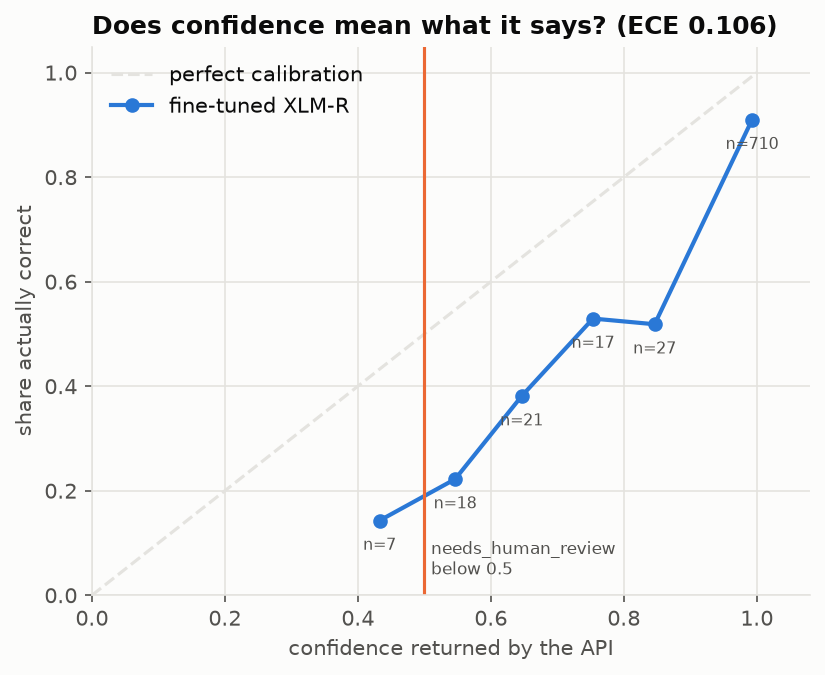
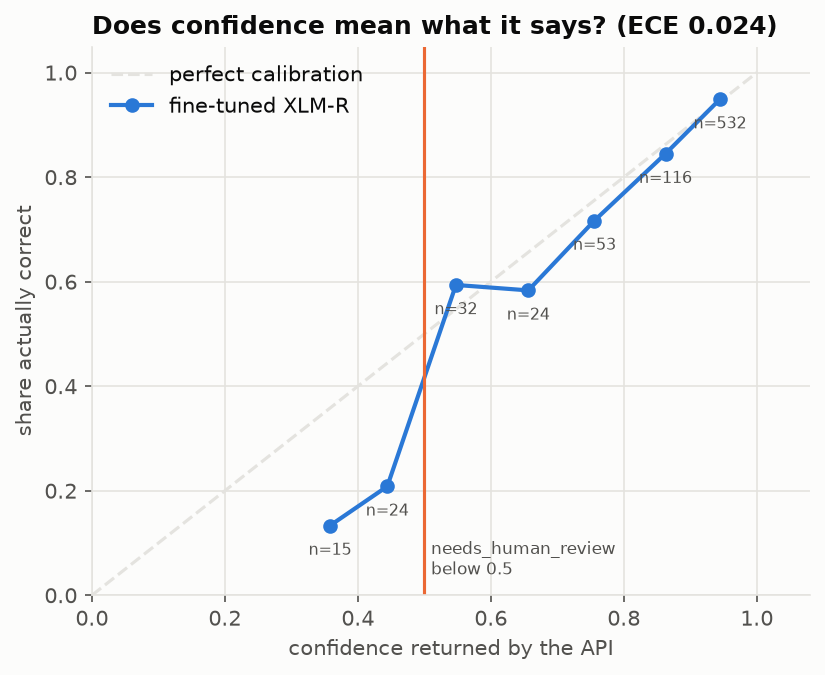
Calibrate category confidence with temperature scaling (T=1.75, ECE 0.106 -> 0.025, predictions unchanged)

diff --git a/notebooks/06_calibrate.py b/notebooks/06_calibrate.py
@@ -1,0 +1,98 @@
+"""Calibrate the XLM-R category confidence with temperature scaling.
+
+    .venv/bin/python notebooks/06_calibrate.py
+
+The fine-tuned model is over-confident (mean confidence 0.96, accuracy 0.85). Temperature scaling divides the
+logits by one number T > 1 before the softmax. It never changes which category wins, only how sure the model
+says it is. Since log p = logits - const, softmax(logits / T) == p ** (1 / T), renormalised.
+
+T is chosen to minimise negative log-likelihood. The honest effect is measured with 5-fold cross-validation
+inside the 800 validation tickets (fit T on 4/5, score the held-out 1/5); the final T is then fitted on all 800.
+Writes app/calibration.json (keyed by the model hash, so it only applies to that exact model)
+and reports/calibration.json.
+"""
+
+import json
+import sys
+
+import numpy as np
+from sklearn.model_selection import StratifiedKFold
+
+from report_style import REPORTS, ROOT
+
+sys.path.insert(0, str(ROOT))
+from app.model import REVIEW_THRESHOLD, file_hash  # noqa: E402
+
+XLMR = ROOT / "model" / "xlmr"
+GRID = np.round(np.arange(0.5, 6.001, 0.01), 2)
+SEED = 42
+
+
+def scale(p, t):
+    q = np.power(np.clip(p, 1e-12, 1), 1 / t)
+    return q / q.sum(1, keepdims=True)
+
+
+def nll(p, y):
+    return float(-np.mean(np.log(np.clip(p[np.arange(len(y)), y], 1e-12, 1))))
+
+
+def ece(p, y):
+    conf, correct = p.max(1), p.argmax(1) == y
+    bins = np.minimum((conf * 10).astype(int), 9)
+    return float(sum(abs(correct[bins == b].mean() - conf[bins == b].mean()) * (bins == b).mean()
+                     for b in range(10) if (bins == b).any()))
+
+
+def fit(p, y):
+    return float(GRID[np.argmin([nll(scale(p, t), y) for t in GRID])])
+
+
+def summary(p, y):
+    conf, correct = p.max(1), p.argmax(1) == y
+    review = conf < REVIEW_THRESHOLD
+    return {"nll": nll(p, y), "ece": ece(p, y), "mean_confidence": float(conf.mean()),
+            "accuracy": float(correct.mean()), "share_flagged_for_review": float(review.mean()),
+            "accuracy_of_flagged": float(correct[review].mean()) if review.any() else None,
+            "accuracy_of_auto_routed": float(correct[~review].mean())}
+
+
+def main():
+    cfg = json.loads((XLMR / "config.json").read_text())
+    saved = np.load(XLMR / "val_probs.npz")
+    labels = {json.loads(line)["ticket_id"]: json.loads(line)["category"]
+              for line in open(ROOT / "data" / "validation.jsonl", encoding="utf-8")}
+    y = np.array([cfg["categories"].index(labels[t]) for t in saved["ticket_id"]])
+    p = saved["category"].astype(np.float64)
+
+    # Honest estimate: every ticket is scored with a T fitted without it.
+    held_out = np.zeros_like(p)
+    temps = []
+    for tr, te in StratifiedKFold(5, shuffle=True, random_state=SEED).split(p, y):
+        t = fit(p[tr], y[tr])
+        temps.append(t)
+        held_out[te] = scale(p[te], t)
+
+    t_final = fit(p, y)
+    before, after = summary(p, y), summary(held_out, y)
+    assert (held_out.argmax(1) == p.argmax(1)).all(), "temperature must not change predictions"
+    print(f"fold temperatures {temps}; final T = {t_final}")
+    for name, s in [("before", before), ("after (5-fold held-out)", after)]:
+        print(f"  {name:24s} ECE {s['ece']:.3f}  NLL {s['nll']:.3f}  mean conf {s['mean_confidence']:.3f}  "
+              f"acc {s['accuracy']:.3f}  flagged {s['share_flagged_for_review']:.1%} "
+              f"(acc {s['accuracy_of_flagged'] or 0:.2f})")
+
+    model_version = f"{cfg['name']}-{file_hash(XLMR / 'model.onnx')[:12]}"
+    (ROOT / "app" / "calibration.json").write_text(json.dumps({
+        model_version: {"category_temperature": t_final,
+                        "fitted_on": "800 validation tickets, minimum NLL (notebooks/06_calibrate.py)"}}, indent=2) + "\n")
+    REPORTS.mkdir(exist_ok=True)
+    rnd = lambda d: {k: (round(v, 4) if isinstance(v, float) else v) for k, v in d.items()}  # noqa: E731
+    (REPORTS / "calibration.json").write_text(json.dumps({
+        "model_version": model_version, "temperature": t_final, "fold_temperatures": temps,
+        "before": rnd(before), "after_5fold_held_out": rnd(after)}, indent=2) + "\n")
+    print("  wrote app/calibration.json and reports/calibration.json")
+
+
+if __name__ == "__main__":
+    main()

diff --git a/app/model.py b/app/model.py
@@ -35,6 +35,15 @@ NONE = "none"  # label used for "no secondary category" during training
 # Tickets whose primary-category confidence falls below this are flagged for a human.
 REVIEW_THRESHOLD = 0.5
 
+# Temperature per exact model (notebooks/06_calibrate.py): softens over-confident category probabilities.
+CALIBRATION = Path(__file__).with_name("calibration.json")
+
+
+def apply_temperature(proba, t: float):
+    """softmax(logits / t) from probabilities: same argmax, only the confidence changes."""
+    q = np.power(np.clip(np.asarray(proba, np.float64), 1e-12, 1), 1 / t)
+    return q / q.sum(1, keepdims=True)
+
 
 def file_hash(path: Path) -> str:
     h = hashlib.sha256()
@@ -135,6 +144,10 @@ class TransformerPredictor:
         self.secondary = cfg["secondary"]
         self.urg_threshold = cfg["urgent_threshold"]
         self.version = f"{cfg.get('name', folder.name)}-{file_hash(folder / 'model.onnx')[:12]}"
+        calibration = json.loads(CALIBRATION.read_text()) if CALIBRATION.exists() else {}
+        self.temperature = calibration.get(self.version, {}).get("category_temperature")
+        if self.temperature:
+            self.version += f"-T{self.temperature:.2f}"
 
         self.tokenizer = Tokenizer.from_file(str(folder / "tokenizer.json"))
         self.tokenizer.enable_truncation(cfg["max_len"])
@@ -195,6 +208,8 @@ class TransformerPredictor:
         else:
             with self._live_request():
                 cat, sec, urg = self.probabilities(tickets)
+        if self.temperature:
+            cat = apply_temperature(cat, self.temperature)
         return decide(tickets, cat, self.categories, sec, self.secondary, urg, self.urg_threshold, self.version)
 
 

diff --git a/tests/test_api.py b/tests/test_api.py
@@ -344,3 +344,18 @@ def test_xlmr_matches_colab_probabilities():
     assert np.allclose(cat, saved["category"][:48], atol=1e-3)
     assert np.allclose(sec, saved["secondary"][:48], atol=1e-3)
     assert np.allclose(urg, saved["urgent"][:48], atol=1e-3)
+
+
+@pytest.mark.skipif(not (XLMR / "val_probs.npz").exists(), reason="model/xlmr not downloaded")
+def test_calibration_changes_confidence_not_predictions():
+    import numpy as np
+    from app.model import TransformerPredictor, apply_temperature
+
+    saved = np.load(XLMR / "val_probs.npz")["category"]
+    calibrated = apply_temperature(saved, 1.75)
+    assert (calibrated.argmax(1) == saved.argmax(1)).all()
+    assert np.allclose(calibrated.sum(1), 1)
+    assert calibrated.max(1).mean() < saved.max(1).mean()
+
+    predictor = TransformerPredictor(XLMR)
+    assert predictor.temperature and predictor.version.endswith(f"-T{predictor.temperature:.2f}")

diff --git a/reports/README.md b/reports/README.md
@@ -5,6 +5,7 @@ Everything here is generated by scripts in `notebooks/` (fixed seed 42). Regener
 ```bash
 .venv/bin/python notebooks/03_eda.py           # eda_summary.md, figures/eda_*.png        (~30 s)
 .venv/bin/python notebooks/04_experiments.py   # experiments.csv, figures/exp_*.png       (~3 min)
+.venv/bin/python notebooks/06_calibrate.py     # app/calibration.json, calibration.json    (~5 s)
 .venv/bin/python notebooks/05_evaluate.py      # metrics.json, classification_report.csv,
                                                # figures/eval_*.png                       (~2 min, needs model/xlmr)
 ```
@@ -20,7 +21,8 @@ Everything here is generated by scripts in `notebooks/` (fixed seed 42). Regener
 | `figures/exp_xlmr_training.png` | XLM-R validation accuracy per epoch for two seeds |
 | `figures/eval_confusion_matrix.png` | Confusion matrix of the served model |
 | `figures/eval_per_class_f1.png`, `eval_accuracy_by_language.png` | Served model vs baseline per category and per language |
-| `figures/eval_calibration.png` | Confidence vs actual accuracy (calibration) |
+| `calibration.json` | Temperature scaling: fitted temperature, calibration before vs after (5-fold held-out) |
+| `figures/eval_calibration.png` | Confidence vs actual accuracy of the served (calibrated) model |
 
 ## Key findings (validation, 800 tickets)
 
@@ -39,8 +41,11 @@ Everything here is generated by scripts in `notebooks/` (fixed seed 42). Regener
    precision (0.51): the model uses it as a fallback for vague tickets.
 7. **By language**: XLM-R is strong across scripts (Sinhala 0.86, Tamil 0.88, English 0.88). Singlish is its
    weakest (0.79) and the only language where the TF-IDF baseline is better (0.88).
-8. **The model is over-confident**: mean confidence 0.96 vs accuracy 0.85 (expected calibration error 0.106).
-   Only 0.9% of tickets fall below the `needs_human_review` threshold (0.5), but those are mostly wrong (14% correct).
+8. **The raw model was over-confident; temperature scaling fixed it.** Raw: mean confidence 0.96 vs accuracy 0.85,
+   expected calibration error (ECE) 0.106. Dividing the category logits by T = 1.75 (fitted by minimum NLL; the 5
+   folds pick 1.72-1.77) gives ECE 0.025 on held-out folds and mean confidence 0.87, with **no prediction changed**.
+   Now 5.4% of tickets fall below the `needs_human_review` threshold (0.5); only 19% of those are correct, while
+   auto-routed tickets are 89% correct. `model_version` carries the temperature (`xlmr-5e87460a8fb6-T1.75`).
 9. All predictions satisfy the API consistency rules (team table, secondary differs from primary, spam rules).
 
 Caveat: the XLM-R epoch and urgency threshold were chosen on the same validation set, so its validation scores are

diff --git a/README.md b/README.md
@@ -84,7 +84,13 @@ docker run -p 8000:8000 -e API_KEY=<key> tensorforge
 
 `model_version` is the model name plus the first 12 characters of the model file's SHA-256 hash, so it always identifies the exact artifact.
 
-`needs_human_review` is `true` when the confidence in the primary category is below **0.5**.
+`confidence` is calibrated with temperature scaling (T = 1.75, `app/calibration.json`, fitted by
+`notebooks/06_calibrate.py`): it changes no prediction, but the raw model said 96% on average while being right
+85% of the time; calibrated, it says 87% (calibration error 0.106 → 0.025). The temperature is part of
+`model_version` (`xlmr-5e87460a8fb6-T1.75`).
+
+`needs_human_review` is `true` when the calibrated confidence in the primary category is below **0.5**. That flags
+about 5% of validation tickets, of which only 19% are correct; the auto-routed rest are 89% correct.
 
 ## Endpoints
 
